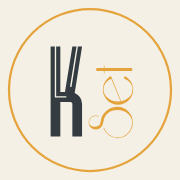
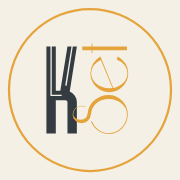
Pictogramme : « Set » sur toute la hauteur du K, barre du t au haut du K

Changed region(s): [[0.25, 0.2222, 0.75, 0.7778], [0.6944, 0.7222, 0.7222, 0.75], [0.6667, 0.6944, 0.6944, 0.7222]]

diff --git a/tools/pictogramme.py b/tools/pictogramme.py
@@ -1,0 +1,92 @@
+"""
+Le pictogramme KatréKatr Set (favicon, icône d'écran d'accueil), d'après le
+dessin de Mathilde (novembre 2026) : un K en Boomtown Deco, « Set » à la
+verticale en Riesling, dans un cercle doré sur fond crème. Le mot « Set »
+couvre toute la hauteur du K : le pied du S sur le bas du K, la barre du t
+sur le haut du K.
+
+    uv run --no-project --with fonttools python tools/pictogramme.py RIESLING.ttf
+
+Écrit public/favicon.svg (version onglet : cercle épais, lettres agrandies,
+lisible à 16 px) et src/assets/pictogramme.svg (version fidèle, trait fin).
+Les PNG (apple-touch-icon 180, icon-512) se tirent de la version fidèle.
+"""
+import sys
+from pathlib import Path
+
+from fontTools.pens.boundsPen import BoundsPen
+from fontTools.pens.svgPathPen import SVGPathPen
+from fontTools.pens.transformPen import TransformPen
+from fontTools.ttLib import TTFont
+
+ICI = Path(__file__).resolve().parent.parent
+SLATE, GOLD, CREAM = '#353C41', '#E5A43B', '#F4F0E6'
+T_FUT = 86  # bord du fût du t côté fin de mot, en unités de Riesling
+
+
+def charge(p):
+    f = TTFont(p)
+    return f.getGlyphSet(), f.getBestCmap()
+
+
+def lettre(font, ch, x, y, h):
+    gs, cm = font
+    g = gs[cm[ord(ch)]]
+    b = BoundsPen(gs)
+    g.draw(b)
+    x0, y0, x1, y1 = b.bounds
+    s = h / (y1 - y0)
+    p = SVGPathPen(gs)
+    g.draw(TransformPen(p, (s, 0, 0, -s, x - x0 * s, y + y1 * s)))
+    return p.getCommands(), (x1 - x0) * s
+
+
+def mot(font, txt, s):
+    gs, cm = font
+    d, cur, pos = '', 0.0, {}
+    for ch in txt:
+        g = gs[cm[ord(ch)]]
+        pos[ch] = cur
+        p = SVGPathPen(gs)
+        g.draw(TransformPen(p, (s, 0, 0, -s, cur, 0)))
+        d += p.getCommands()
+        cur += g.width * s
+    return d, pos
+
+
+def svg(bt, rs, kh, kx, ky, ecart, ring, r_ring, depasse=0.6):
+    k, wk = lettre(bt, 'K', kx, ky, kh)
+    gs, cm = rs
+    # Échelle de « Set » : du début du mot au haut du fût du t = hauteur du K
+    # (plus un léger dépassement du S sous le K, comme sur le dessin).
+    t = gs[cm[ord('t')]]
+    longueur = gs[cm[ord('S')]].width + gs[cm[ord('e')]].width + T_FUT
+    s = (kh + depasse) / longueur
+    d, pos = mot(rs, 'Set', s)
+    b = BoundsPen(gs)
+    gs[cm[ord('S')]].draw(b)
+    cap = b.bounds[3] * s
+    by = ky + kh + depasse
+    bx = kx + wk + ecart + cap  # rotate(-90) : les hauts de lettres pointent à gauche
+    return f'''<svg xmlns="http://www.w3.org/2000/svg" viewBox="0 0 64 64" role="img" aria-label="KatréKatr Set">
+  <!-- Pictogramme d'après le dessin de Mathilde (novembre 2026), tools/pictogramme.py. -->
+  <circle cx="32" cy="32" r="31" fill="{CREAM}"/>
+  <circle cx="32" cy="32" r="{r_ring}" fill="none" stroke="{GOLD}" stroke-width="{ring}"/>
+  <path d="{k}" fill="{SLATE}"/>
+  <path transform="translate({bx:.3f} {by:.3f}) rotate(-90)" d="{d}" fill="{GOLD}"/>
+</svg>
+'''
+
+
+def main(riesling):
+    bt = charge(ICI / 'src/assets/fonts/boomtown-deco-fr.ttf')
+    rs = charge(riesling)
+    (ICI / 'src/assets/pictogramme.svg').write_text(svg(bt, rs, kh=31, kx=16.5, ky=16.5, ecart=-1.5, ring=0.8, r_ring=28.8))
+    (ICI / 'public/favicon.svg').write_text(svg(bt, rs, kh=35, kx=13, ky=14.5, ecart=-1.5, ring=2.4, r_ring=28))
+    print('écrit src/assets/pictogramme.svg et public/favicon.svg')
+
+
+if __name__ == '__main__':
+    if len(sys.argv) != 2:
+        sys.exit(__doc__)
+    main(sys.argv[1])

diff --git a/CHARTE.md b/CHARTE.md
@@ -45,7 +45,7 @@ capitales, **Riesling** pour la police fine (« Ensemble vocal », « Set »).
 | Complète, tout noir | impressions monochromes | absente | vectoriel |
 | Complète, tout clair | sur fond sombre | absente | vectoriel |
 | Courte, sans « Ensemble vocal » | barre du haut, pied de page | absente (on réduit la complète, « Ensemble vocal » devient illisible sous 60 px de haut) | vectoriel |
-| Pictogramme | icône d'onglet, icône de téléphone | d'après le dessin de Mathilde (24/11) : K en Boomtown Deco gris ardoise `#353C41`, « Set » vertical en Riesling or `#E5A43B`, cercle doré sur crème `#F4F0E6`. `public/favicon.svg` (version onglet : cercle épais, lettres agrandies, lisible à 16 px), `src/assets/pictogramme.svg` (version fine, fidèle au dessin), `public/apple-touch-icon.png` 180 px, `public/icon-512.png` | à refaire si Mathilde retouche le K |
+| Pictogramme | icône d'onglet, icône de téléphone | d'après le dessin de Mathilde (24/11) : K en Boomtown Deco gris ardoise `#353C41`, « Set » vertical en Riesling or `#E5A43B` sur toute la hauteur du K (pied du S au bas du K, barre du t au haut du K), cercle doré sur crème `#F4F0E6`. `tools/pictogramme.py` génère `public/favicon.svg` (version onglet : cercle épais, lettres agrandies, lisible à 16 px), `src/assets/pictogramme.svg` (version fine, fidèle au dessin), `public/apple-touch-icon.png` 180 px, `public/icon-512.png` | à refaire si Mathilde retouche le K |
 
 **Taille minimale** : la version complète ne descend pas sous 60 px de haut à
 l'écran. En dessous, on passe à la version courte. **Zone de protection** :
